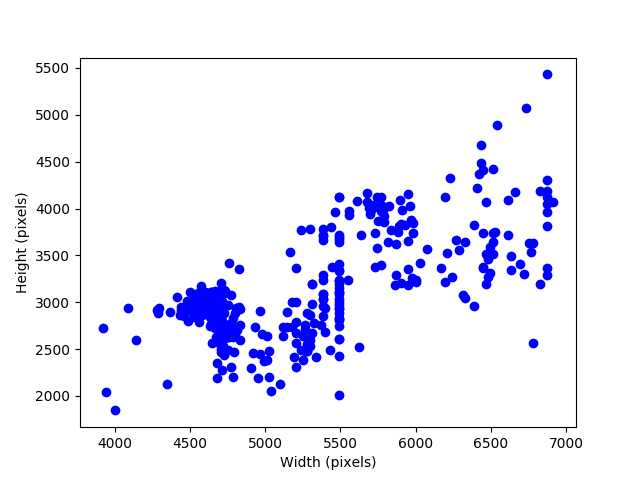
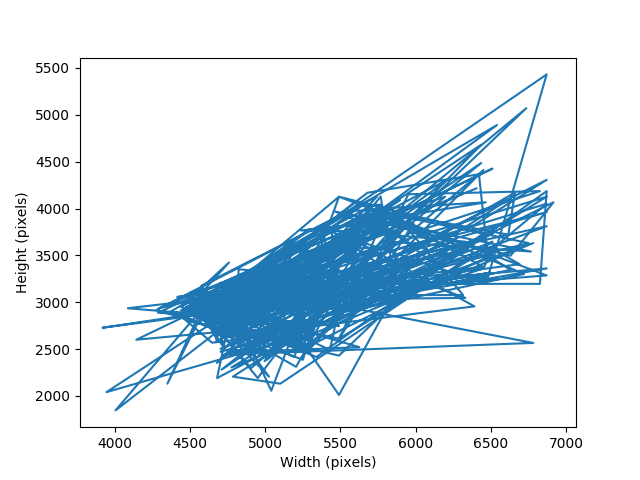
ran clean data on all images

Changed region(s): [[0.1562, 0.125, 0.875, 0.875]]

diff --git a/clean_data.py b/clean_data.py
@@ -77,7 +77,7 @@ def preprocess_for_jpg(imgarray, resize=None):
     return imgarray
 
 def save_plot_of_datapoint_shapes(shape_datapts, plot_save_path):
-    plt.plot(*zip(*shape_datapts), 'bo')
+    plt.plot(*zip(*shape_datapts))
     plt.xlabel("Width (pixels)")
     plt.ylabel("Height (pixels)")
     plt.savefig(plot_save_path)
